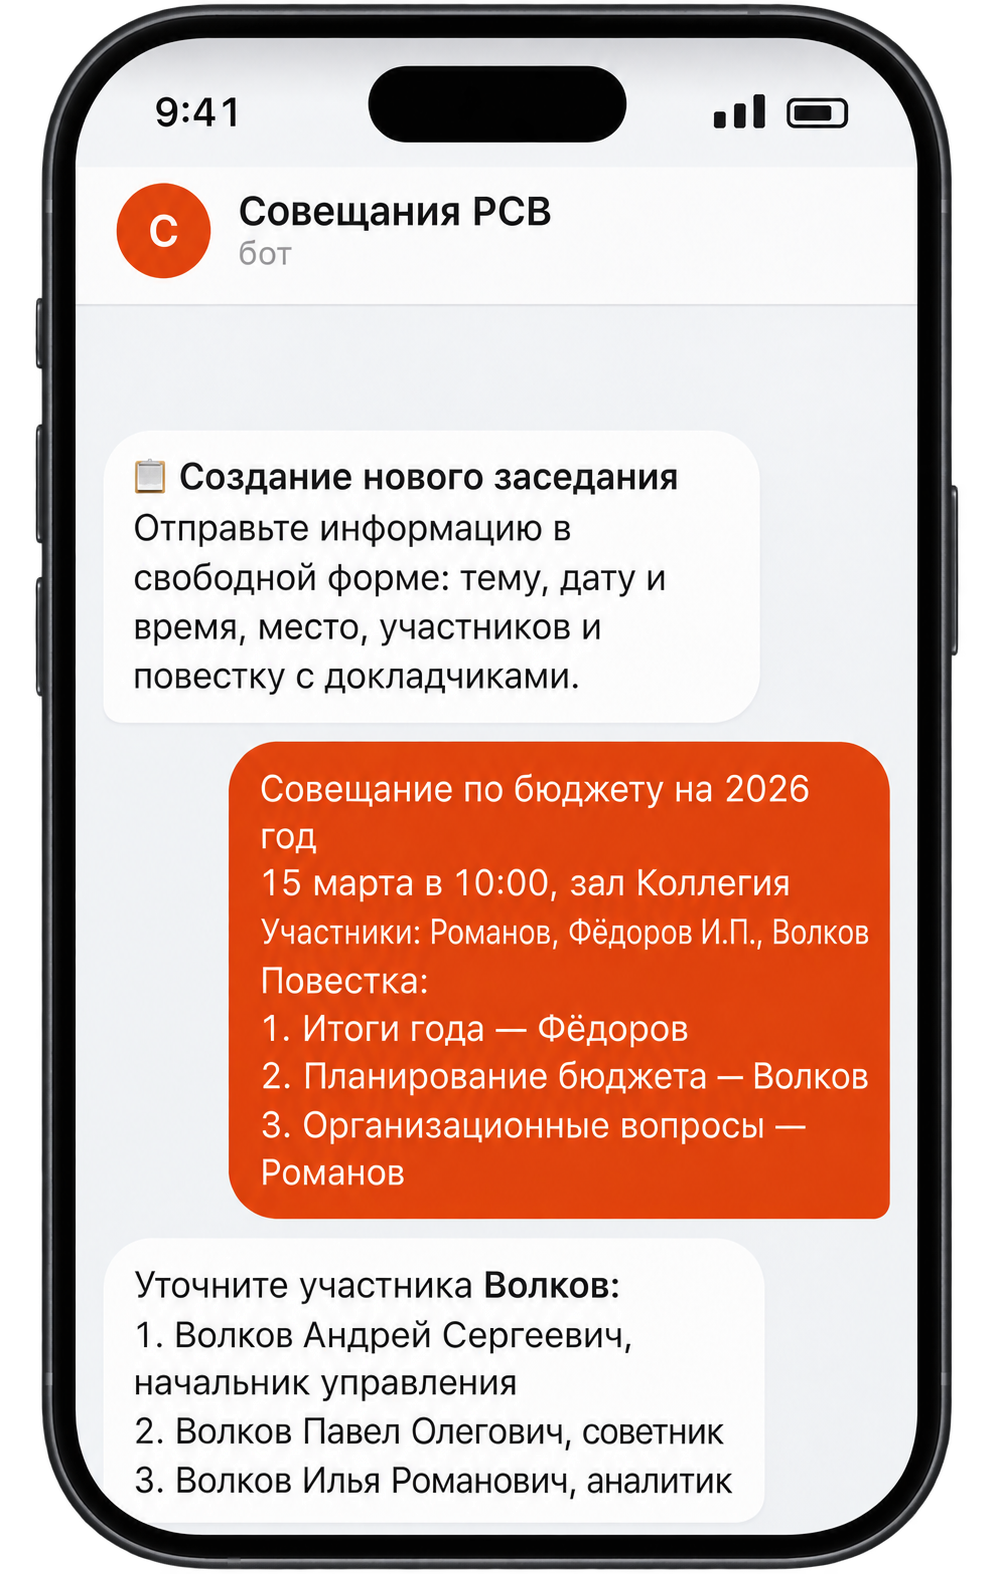
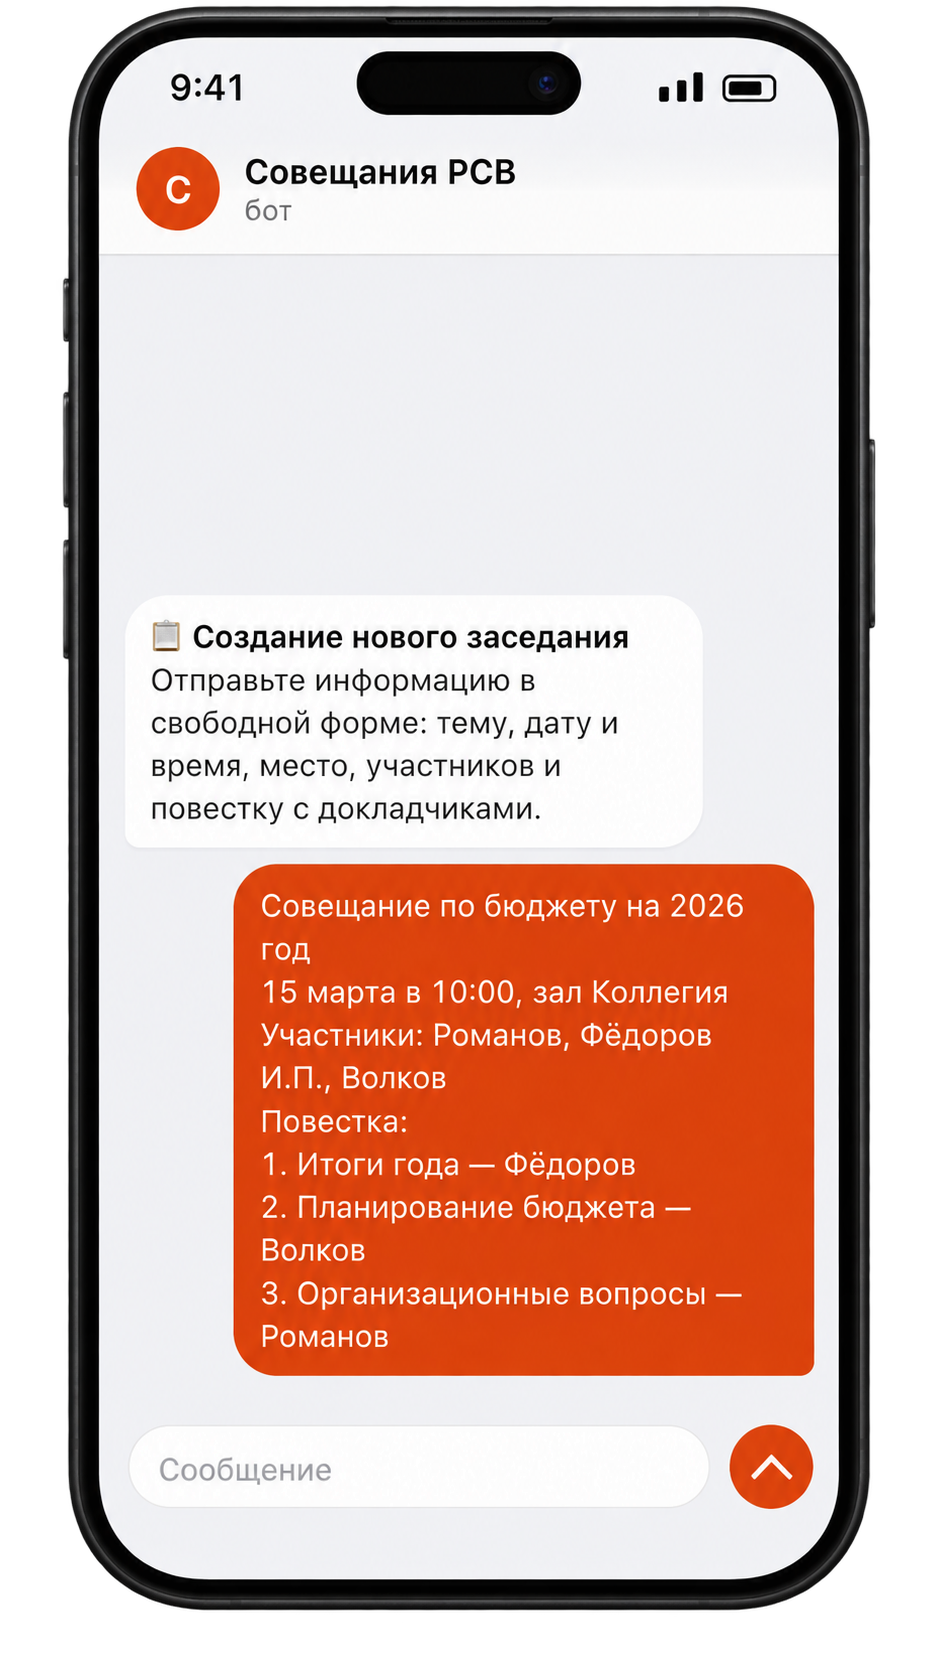
Исправить мокап и адаптацию интерфейсов

diff --git a/interfaces/index.html b/interfaces/index.html
@@ -23,6 +23,8 @@
 <style>
 .dashboard-real{padding:0;background:#111}.dashboard-real .dashboard-cover{display:block;width:100%;height:100%;object-fit:cover;object-position:50% 0;transform:scale(1.09);transform-origin:50% 0}
 .rag-preview img,.meet-preview img{height:96%!important;transform:none}
+#case3>div:first-child>div:first-child,#case4>div:first-child>div:first-child,#case5>div:first-child>div:first-child,#case6>div:first-child>div:first-child{align-items:center!important}#case3>div:first-child>div:first-child>div:first-child,#case4>div:first-child>div:first-child>div:first-child,#case5>div:first-child>div:first-child>div:first-child,#case6>div:first-child>div:first-child>div:first-child{padding-top:0!important}
+@media(max-width:560px){#works{padding-top:56px;padding-bottom:72px}.work-preview{border-radius:16px}.work-card h3{margin-top:12px}.work-card p{font-size:15px}.work-number{font-size:12px}#ui{padding-top:56px!important}#ui>div,#slides>div{align-items:flex-start!important;flex-direction:column;gap:16px!important;padding-bottom:20px!important}#case3,#case4,#case5,#case6{padding-top:56px!important}#case3 h3,#case4 h3,#case5 h3,#case6 h3{font-size:clamp(32px,10vw,46px)!important}#case3>div:first-child>div:first-child,#case4>div:first-child>div:first-child,#case5>div:first-child>div:first-child,#case6>div:first-child>div:first-child{gap:12px!important}#case3>div[style*="aspect-ratio"],#case4>div[style*="aspect-ratio"],#case5>div[style*="aspect-ratio"]{margin-top:28px!important;border-radius:18px!important}#case6 img{max-width:100%;height:auto}}
 </style>
 </helmet>
 
@@ -63,8 +65,8 @@
 
 <section id="case3" data-screen-label="Кейс 03 RAG-бот" style="padding:clamp(56px,6vw,96px) clamp(16px,4vw,56px) 0">
   <div style="display:grid;grid-template-columns:repeat(auto-fit,minmax(min(100%,300px),1fr));gap:clamp(20px,3vw,48px) clamp(24px,4vw,72px);align-items:start">
-    <div style="grid-column:1 / -1;display:flex;gap:clamp(16px,2vw,28px);align-items:flex-start">
-      <div style="font-weight:300;font-size:clamp(18px,1.5vw,22px);color:#FFA41B;padding-top:.6em">03</div>
+    <div style="grid-column:1 / -1;display:flex;gap:clamp(16px,2vw,28px);align-items:center">
+      <div style="font-weight:300;font-size:clamp(18px,1.5vw,22px);color:#FFA41B;padding-top:0;align-self:center">03</div>
       <h3 style="margin:0;font-weight:300;font-size:clamp(34px,4.4vw,72px);line-height:1.04;letter-spacing:-0.05em;text-wrap:balance">RAG-бот по документам РСВ</h3>
     </div>
     <div style="display:flex;flex-direction:column;gap:10px"><div style="font-size:13px;font-weight:600;color:#8F8C86;text-transform:uppercase;letter-spacing:.08em">Задача</div><p style="margin:0;font-size:17px;line-height:1.5;color:#D7D4CE;text-wrap:pretty">Спроектировать интерфейс бота, который отвечает на вопросы по документам Президентской платформы. Ответы должны быть понятными с первого взгляда, а пользователь должен доверять цифрам.</p></div>
@@ -78,8 +80,8 @@
 
 <section id="case4" data-screen-label="Кейс 04 Бот для совещаний" style="padding:clamp(56px,6vw,96px) clamp(16px,4vw,56px) 0">
   <div style="display:grid;grid-template-columns:repeat(auto-fit,minmax(min(100%,300px),1fr));gap:clamp(20px,3vw,48px) clamp(24px,4vw,72px);align-items:start">
-    <div style="grid-column:1 / -1;display:flex;gap:clamp(16px,2vw,28px);align-items:flex-start">
-      <div style="font-weight:300;font-size:clamp(18px,1.5vw,22px);color:#FFA41B;padding-top:.6em">04</div>
+    <div style="grid-column:1 / -1;display:flex;gap:clamp(16px,2vw,28px);align-items:center">
+      <div style="font-weight:300;font-size:clamp(18px,1.5vw,22px);color:#FFA41B;padding-top:0;align-self:center">04</div>
       <h3 style="margin:0;font-weight:300;font-size:clamp(34px,4.4vw,72px);line-height:1.04;letter-spacing:-0.05em;text-wrap:balance">Бот для подготовки совещаний</h3>
     </div>
     <div style="display:flex;flex-direction:column;gap:10px"><div style="font-size:13px;font-weight:600;color:#8F8C86;text-transform:uppercase;letter-spacing:.08em">Задача</div><p style="margin:0;font-size:17px;line-height:1.5;color:#D7D4CE;text-wrap:pretty">Спроектировать интерфейс бота, который собирает данные о заседании из одного сообщения и готовит документы. Сложный сценарий с проверками должен ощущаться как короткий диалог.</p></div>
@@ -93,8 +95,8 @@
 
   <section id="case5" data-screen-label="Кейс 05 Дашборд" style="padding:clamp(56px,6vw,96px) clamp(16px,4vw,56px) 0">
     <div style="display:grid;grid-template-columns:repeat(auto-fit,minmax(min(100%,300px),1fr));gap:clamp(20px,3vw,48px) clamp(24px,4vw,72px);align-items:start">
-      <div style="grid-column:1 / -1;display:flex;gap:clamp(16px,2vw,28px);align-items:flex-start">
-        <div style="font-weight:300;font-size:clamp(18px,1.5vw,22px);color:#FFA41B;padding-top:.6em">05</div>
+      <div style="grid-column:1 / -1;display:flex;gap:clamp(16px,2vw,28px);align-items:center">
+        <div style="font-weight:300;font-size:clamp(18px,1.5vw,22px);color:#FFA41B;padding-top:0;align-self:center">05</div>
         <h3 style="margin:0;font-weight:300;font-size:clamp(34px,4.4vw,72px);line-height:1.04;letter-spacing:-0.05em;text-wrap:balance">HR-дашборд ключевых показателей</h3>
       </div>
       <div style="display:flex;flex-direction:column;gap:10px"><div style="font-size:13px;font-weight:600;color:#8F8C86;text-transform:uppercase;letter-spacing:.08em">Задача</div><p style="margin:0;font-size:17px;line-height:1.5;color:#D7D4CE;text-wrap:pretty">Собрать в одном экране кадровый состав, текучесть, подбор и фонд оплаты труда, чтобы руководитель видел картину за минуту, а данные обновлялись загрузкой Excel.</p></div>
@@ -115,8 +117,8 @@
 
 <section id="case6" data-screen-label="Кейс презентации 01 Кадровый комитет" style="padding:clamp(56px,6vw,96px) clamp(16px,4vw,56px) 0">
   <div style="display:grid;grid-template-columns:repeat(auto-fit,minmax(min(100%,300px),1fr));gap:clamp(20px,3vw,48px) clamp(24px,4vw,72px);align-items:start">
-    <div style="grid-column:1 / -1;display:flex;gap:clamp(16px,2vw,28px);align-items:flex-start">
-      <div style="font-weight:300;font-size:clamp(18px,1.5vw,22px);color:#FFA41B;padding-top:.6em">01</div>
+    <div style="grid-column:1 / -1;display:flex;gap:clamp(16px,2vw,28px);align-items:center">
+      <div style="font-weight:300;font-size:clamp(18px,1.5vw,22px);color:#FFA41B;padding-top:0;align-self:center">01</div>
       <h3 style="margin:0;font-weight:300;font-size:clamp(34px,4.4vw,72px);line-height:1.04;letter-spacing:-0.05em;text-wrap:balance">Презентация для кадрового комитета</h3>
     </div>
     <div style="display:flex;flex-direction:column;gap:10px"><div style="font-size:13px;font-weight:600;color:#8F8C86;text-transform:uppercase;letter-spacing:.08em">Задача</div><p style="margin:0;font-size:17px;line-height:1.5;color:#D7D4CE;text-wrap:pretty">Комитет за одно заседание рассматривает десятки руководителей. По каждому более 20 параметров: оценка, KPI, преемники, риски, карьерная траектория. Обычная презентация превращается в простыню из таблиц.</p></div>

diff --git a/interfaces/NewCasesClean.dc.html b/interfaces/NewCasesClean.dc.html
@@ -1,7 +1,7 @@
 <!doctype html><meta charset="utf-8"><script src="./support.js"></script><x-dc><helmet><link href="https://fonts.googleapis.com/css2?family=Golos+Text:wght@400;500;600&display=swap" rel="stylesheet"><style>body{margin:0;background:#0B0B0B!important} .newcase-root{font-family:Manrope,sans-serif;color:#F3F1EC;background:#0B0B0B}.newcase-root>section>div:first-child{background:#0B0B0B!important;color:#F3F1EC!important;padding:0!important;border-radius:0!important}.newcase-title{display:flex;gap:clamp(16px,2vw,28px);align-items:flex-start}.newcase-title h3{margin:0;font-size:clamp(34px,4.4vw,72px);font-weight:300;line-height:1.04;letter-spacing:-.05em;text-wrap:balance}.newcase-number{font-size:clamp(18px,1.5vw,22px);color:#FFA41B;padding-top:.6em;font-weight:300}.newcase-copy{display:grid;grid-template-columns:repeat(2,minmax(0,1fr));gap:clamp(24px,4vw,72px);margin-top:28px}.newcase-label{font-size:13px;font-weight:600;letter-spacing:.08em;text-transform:uppercase;color:#8F8C86}.newcase-copy p{font-size:17px;line-height:1.5;color:#D7D4CE;margin:10px 0 0}.newcase-meta{display:flex;align-items:center;justify-content:flex-end;gap:16px;margin-top:24px;font-size:13px;color:#8F8C86}.newcase-meta button{font:inherit;font-size:14px;border:1px solid #F3F1EC30;color:#F3F1EC;background:transparent;border-radius:999px;padding:12px 18px;cursor:pointer}.newcase-meta button:hover{border-color:#FFA41B;color:#FFA41B}.newcase-root section>div:first-child>[data-rh^=st]{background:#121212!important;border-radius:28px!important}.newcase-root>section{padding-bottom:32px!important}.newcase-root>section:last-child{border-bottom:1px solid #F3F1EC1f;padding-bottom:56px!important}@media(max-width:760px){.newcase-copy{grid-template-columns:1fr;gap:22px}.newcase-meta{flex-wrap:wrap}.newcase-root section>div:first-child>[data-rh^=st]{padding:30px 14px!important}}.newcase-meta button{background:#FFA41B;color:#111;border:0;padding:17px 26px;font-size:16px;font-weight:600;box-shadow:0 6px 24px #ffa41b20}.newcase-meta button:hover{background:#ffb747;color:#111}.newcase-meta button:focus-visible{outline:3px solid #fff;outline-offset:4px}</style></helmet><div class="newcase-root"><section id="case1" style="width:100%;box-sizing:border-box;padding:clamp(56px,6vw,96px) clamp(16px,4vw,56px) 0;scroll-margin-top:90px">
   <div style="background:#0B0B0B;color:#F3F1EC;padding:0;display:flex;flex-direction:column;gap:32px">
 <div data-rh="t1" class="newcase-header" style="opacity:{{ rv.t1.o }};transform:{{ rv.t1.t }};transition:opacity .7s,transform .7s">
- <div class="newcase-title"><span class="newcase-number">01</span><h3>Квартал — панель правления ТСЖ</h3></div>
+ <div class="newcase-title" style="align-items:center"><span class="newcase-number" style="padding-top:0;align-self:center">01</span><h3>Квартал — панель правления ТСЖ</h3></div>
  <div class="newcase-copy"><div><span class="newcase-label">Задача</span><p>Правление ведёт дом в Excel и домовом чате: о долгах узнаёт с опозданием, заявки теряются, показания собирают обзвоном.</p></div><div><span class="newcase-label">Решение</span><p>Одна панель для платежей, заявок и показаний. Каждый раздел начинается с ключевых цифр; от проблемы можно сразу перейти к действию.</p></div></div>
  <div class="newcase-meta"><button type="button" aria-expanded="{{ open1 }}" aria-controls="case1-details" onClick="{{ toggle1 }}">{{ btn1 }}</button></div></div>
     <div data-rh="st1" style="border-radius:28px;background:#14161C;padding:56px 40px 36px;display:{{ cover1 }};flex-direction:column;align-items:center;gap:40px;overflow:hidden">
@@ -52,7 +52,7 @@
 <section id="case2" style="width:100%;box-sizing:border-box;padding:clamp(56px,6vw,96px) clamp(16px,4vw,56px) 0;scroll-margin-top:90px">
   <div style="background:#141413;border:1px solid #232322;border-radius:40px;padding:40px;display:flex;flex-direction:column;gap:36px">
 <div data-rh="t2" class="newcase-header" style="opacity:{{ rv.t2.o }};transform:{{ rv.t2.t }};transition:opacity .7s,transform .7s">
- <div class="newcase-title"><span class="newcase-number">02</span><h3>Учёт — трекер личных расходов</h3></div>
+ <div class="newcase-title" style="align-items:center"><span class="newcase-number" style="padding-top:0;align-self:center">02</span><h3>Учёт — трекер личных расходов</h3></div>
  <div class="newcase-copy"><div><span class="newcase-label">Задача</span><p>Банковская аналитика показывает траты постфактум, а ручной ввод в трекерах отнимает время. Месячный бюджет не помогает понять, сколько можно потратить сегодня.</p></div><div><span class="newcase-label">Решение</span><p>Остаток и дневной лимит — крупно, календарь показывает цвет дня, а расход записывается в коротком сценарии с суммой и категорией.</p></div></div>
  <div class="newcase-meta"><button type="button" aria-expanded="{{ open2 }}" aria-controls="case2-details" onClick="{{ toggle2 }}">{{ btn2 }}</button></div></div>
     <div data-rh="st2" style="border-radius:28px;background:#0A0A0A;padding:56px 48px;display:{{ cover2 }};grid-template-columns:repeat(auto-fit,minmax(320px,1fr));gap:48px;align-items:center;overflow:hidden">
@@ -185,3 +185,4 @@ class Component extends DCLogic {
   }
 }
 </script>
+<style>.newcase-title{align-items:center!important}.newcase-number{padding-top:0!important}@media(max-width:560px){.newcase-root>section{padding-top:56px!important}.newcase-title{gap:12px!important}.newcase-title h3{font-size:clamp(32px,10vw,46px)!important}.newcase-copy{gap:22px!important}.newcase-meta{justify-content:flex-start!important}.newcase-root section>div:first-child>[data-rh^=st]{border-radius:18px!important}}</style>
